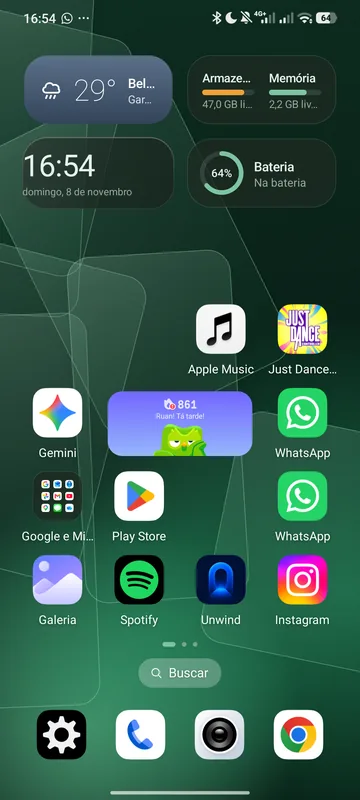
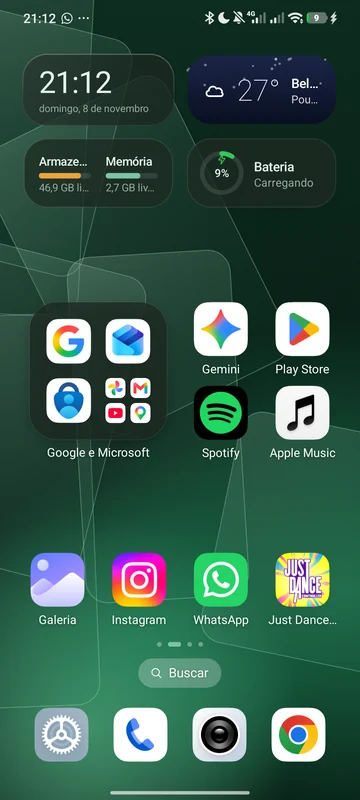
Emerald 1.0.3: print novo da tela inicial e card de novidades

diff --git a/index.html b/index.html
@@ -137,9 +137,10 @@
                 <div class="update-item-title">Emerald</div>
                 <small style="color: var(--mute);">Launcher para celulares</small>
               </div>
-              <span class="update-item-tag" style="color: #7fe6b0; border-color: rgba(127,230,176,.4); background: rgba(127,230,176,.1);">✦ Novo · v1.0.2</span>
+              <span class="update-item-tag" style="color: #7fe6b0; border-color: rgba(127,230,176,.4); background: rgba(127,230,176,.1);">✦ Novo · v1.0.3</span>
             </div>
             <ul class="update-item-list">
+              <li style="color: #7fe6b0;"><span style="color: var(--dim);"><b>Relógio alinhado (1.0.3)</b>: o relógio em cartão ganhou o mesmo espaço interno dos outros cartões.</span></li>
               <li style="color: #7fe6b0;"><span style="color: var(--dim);"><b>Mais estável (1.0.2)</b>: não trava mais ao virar a tela inicial padrão, e nos celulares Xiaomi explica por que o sistema troca os gestos pelos três botões.</span></li>
               <li style="color: #7fe6b0;"><span style="color: var(--dim);"><b>Pastas como no HyperOS (1.0.1)</b>: os apps saem da pasta e crescem até a grade, com movimento de mola, e voltam voando ao fechar. Ícones de 60 dp por padrão.</span></li>
               <li style="color: #7fe6b0;"><span style="color: var(--dim);"><b>Chegou o Emerald (1.0.0)</b>: a nova gema é a tela inicial do celular Android, em verde suave e vidro, grátis e sem anúncios.</span></li>
@@ -303,7 +304,7 @@
         </div>
       </div>
       <div class="reveal">
-        <div class="em-duo"><img class="shot" src="img/emerald-inicio-720.webp" loading="lazy" width="720" height="1600" alt="Tela inicial do Emerald"><img class="shot" src="img/emerald-gaveta-720.webp" loading="lazy" width="720" height="1600" alt="Gaveta de apps do Emerald"></div>
+        <div class="em-duo"><img class="shot" src="img/emerald-inicio-720.webp?v=2" loading="lazy" width="720" height="1600" alt="Tela inicial do Emerald"><img class="shot" src="img/emerald-gaveta-720.webp" loading="lazy" width="720" height="1600" alt="Gaveta de apps do Emerald"></div>
       </div>
     </div>
   </section>

diff --git a/emerald/index.html b/emerald/index.html
@@ -47,7 +47,7 @@
           <path class="tw" d="M318 318l1.6 3.8 3.8 1.6-3.8 1.6-1.6 3.8-1.6-3.8-3.8-1.6 3.8-1.6z" fill="#c4ffe0"/>
         </svg>
       </div>
-      <div class="phone flutua"><img src="../img/emerald-inicio-720.webp" srcset="../img/emerald-inicio-360.webp 360w, ../img/emerald-inicio-720.webp 720w" sizes="18rem" width="720" height="1600" alt="Tela inicial do Emerald com widgets de clima, relógio, bateria e memória"></div>
+      <div class="phone flutua"><img src="../img/emerald-inicio-720.webp?v=2" srcset="../img/emerald-inicio-360.webp?v=2 360w, ../img/emerald-inicio-720.webp?v=2 720w" sizes="18rem" width="720" height="1600" alt="Tela inicial do Emerald com widgets de clima, relógio, bateria e memória"></div>
     </div>
   </section>
 
